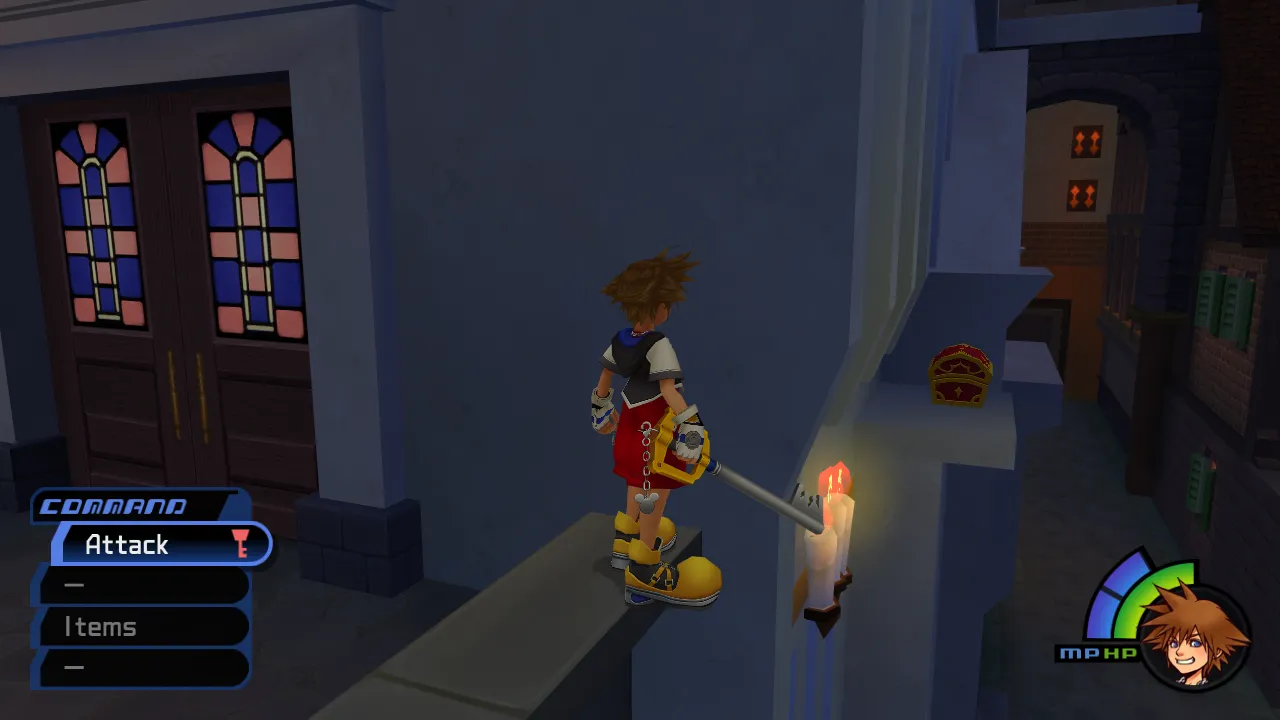
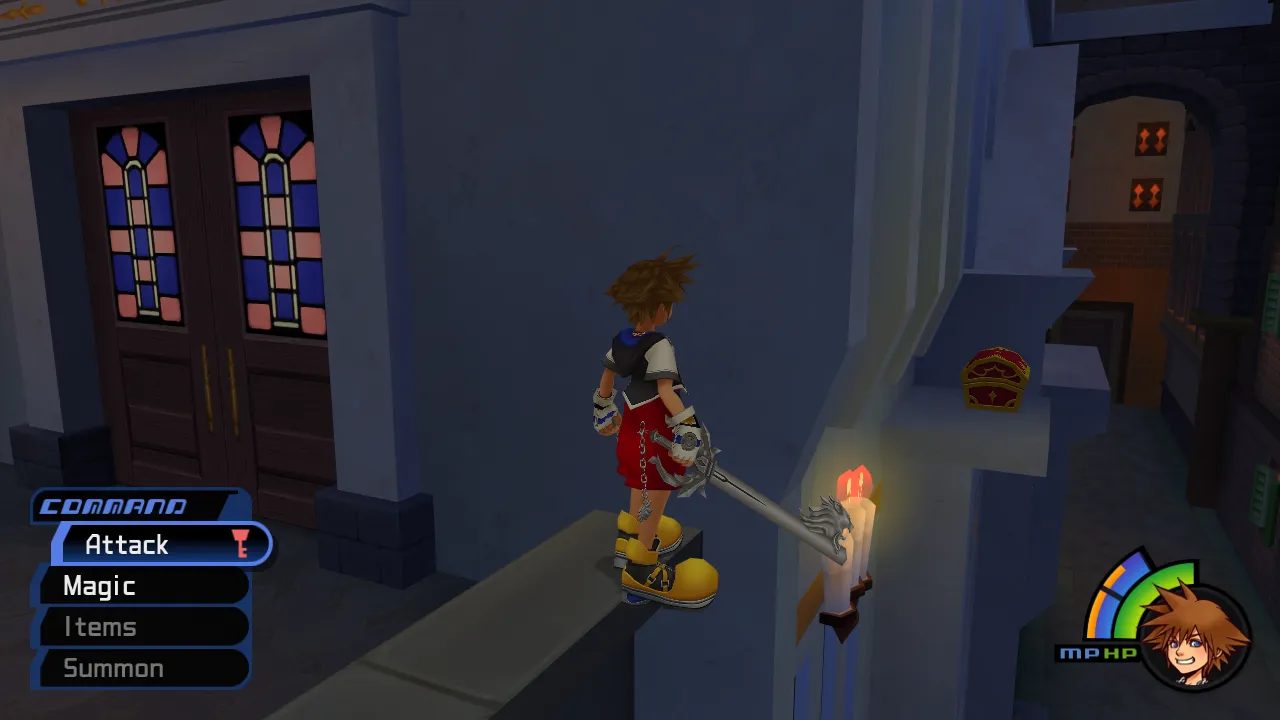
finished

diff --git a/olympus_coliseum.html b/olympus_coliseum.html
@@ -122,9 +122,6 @@
               <td style="border: 1px solid #ddd; padding: 8px; text-align: left;"><img src="./images/locations/olympus_coliseum/Olympus Coliseum Cloud Sonic Blade Event.webp" alt="Olympus Coliseum Cloud Sonic Blade Event" style="max-width: 640px; max-height: 360px;"></td>
             </tr>
             <tr>
-              
-            </tr>
-            <tr>
               <td style="border: 1px solid #ddd; padding: 8px; text-align: left;">Complete Phil Cup</td>
               <td style="border: 1px solid #ddd; padding: 8px; text-align: left;">Phil Cup</td>
               <td style="border: 1px solid #ddd; padding: 8px; text-align: left;">PLACEHOLDER: Complete Phil Cup Together</td>
@@ -173,6 +170,18 @@
               <td style="border: 1px solid #ddd; padding: 8px; text-align: left;"><img src="./images/locations/olympus_coliseum/Complete Hercules Cup.webp" alt="Complete Hercules Cup" style="max-width: 640px; max-height: 360px;"></td>
             </tr>
             <tr>
+              <td style="border: 1px solid #ddd; padding: 8px; text-align: left;">Hercules Cup Yellow Trinity Event</td>
+              <td style="border: 1px solid #ddd; padding: 8px; text-align: left;">Lobby</td>
+              <td style="border: 1px solid #ddd; padding: 8px; text-align: left;">PLACEHOLDER: Complete Hercules Cup Together</td>
+              <td style="border: 1px solid #ddd; padding: 8px; text-align: left;"><img src="./images/locations/olympus_coliseum/Hercules Cup Yellow Trinity Event.webp" alt="Hercules Cup Yellow Trinity Event" style="max-width: 640px; max-height: 360px;"></td>
+            </tr>
+            <tr>
+              <td style="border: 1px solid #ddd; padding: 8px; text-align: left;">Olympus Coliseum Olympia Chest</td>
+              <td style="border: 1px solid #ddd; padding: 8px; text-align: left;">Coliseum Lobby</td>
+              <td style="border: 1px solid #ddd; padding: 8px; text-align: left;">PLACEHOLDER: Complete Phil and Pegasus and Hercules Cup</td>
+              <td style="border: 1px solid #ddd; padding: 8px; text-align: left;"><img src="./images/locations/olympus_coliseum/Olympus Coliseum Olympia Chest.webp" alt="Olympus Coliseum Olympia Chest" style="max-width: 640px; max-height: 360px;"></td>
+            </tr>
+            <tr>
               <td style="border: 1px solid #ddd; padding: 8px; text-align: left;">Complete Hercules Cup Solo</td>
               <td style="border: 1px solid #ddd; padding: 8px; text-align: left;">Hercules Cup</td>
               <td style="border: 1px solid #ddd; padding: 8px; text-align: left;">PLACEHOLDER: Complete Solo</td>
@@ -185,22 +194,10 @@
               <td style="border: 1px solid #ddd; padding: 8px; text-align: left;"><img src="./images/locations/olympus_coliseum/Complete Hercules Cup Time Trial.webp" alt="Complete Hercules Cup Time Trial" style="max-width: 640px; max-height: 360px;"></td>
             </tr>
             <tr>
-              <td style="border: 1px solid #ddd; padding: 8px; text-align: left;">Hercules Cup Yellow Trinity Event</td>
-              <td style="border: 1px solid #ddd; padding: 8px; text-align: left;">Lobby</td>
-              <td style="border: 1px solid #ddd; padding: 8px; text-align: left;">PLACEHOLDER: Complete Hercules Cup Together</td>
-              <td style="border: 1px solid #ddd; padding: 8px; text-align: left;"><img src="./images/locations/olympus_coliseum/Hercules Cup Yellow Trinity Event.webp" alt="Hercules Cup Yellow Trinity Event" style="max-width: 640px; max-height: 360px;"></td>
-            </tr>
-            <tr>
-              <td style="border: 1px solid #ddd; padding: 8px; text-align: left;">Olympus Coliseum Defeat Ice Titan Diamond Dust Event</td>
-              <td style="border: 1px solid #ddd; padding: 8px; text-align: left;">Gold Match</td>
-              <td style="border: 1px solid #ddd; padding: 8px; text-align: left;">PLACEHOLDER: Defeat Ice Titan</td>
-              <td style="border: 1px solid #ddd; padding: 8px; text-align: left;"><img src="./images/locations/olympus_coliseum/Olympus Coliseum Defeat Ice Titan Diamond Dust Event.webp" alt="Olympus Coliseum Defeat Ice Titan Diamond Dust Event" style="max-width: 640px; max-height: 360px;"></td>
-            </tr>
-            <tr>
-              <td style="border: 1px solid #ddd; padding: 8px; text-align: left;">Olympus Coliseum Olympia Chest</td>
-              <td style="border: 1px solid #ddd; padding: 8px; text-align: left;">Coliseum Lobby</td>
-              <td style="border: 1px solid #ddd; padding: 8px; text-align: left;">PLACEHOLDER: Complete Phil and Pegasus and Hercules Cup</td>
-              <td style="border: 1px solid #ddd; padding: 8px; text-align: left;"><img src="./images/locations/olympus_coliseum/Olympus Coliseum Olympia Chest.webp" alt="Olympus Coliseum Olympia Chest" style="max-width: 640px; max-height: 360px;"></td>
+              <td style="border: 1px solid #ddd; padding: 8px; text-align: left;">Hades Cup Defeat Yuffie Event</td>
+              <td style="border: 1px solid #ddd; padding: 8px; text-align: left;">Hades Cup</td>
+              <td style="border: 1px solid #ddd; padding: 8px; text-align: left;">PLACEHOLDER: Defeat Yuffie</td>
+              <td style="border: 1px solid #ddd; padding: 8px; text-align: left;"><img src="./images/locations/olympus_coliseum/Hades Cup Defeat Yuffie Event.webp" alt="Hades Cup Defeat Yuffie Event" style="max-width: 640px; max-height: 360px;"></td>
             </tr>
             <tr>
               <td style="border: 1px solid #ddd; padding: 8px; text-align: left;">Hades Cup Defeat Behemoth Event</td>
@@ -215,6 +212,12 @@
               <td style="border: 1px solid #ddd; padding: 8px; text-align: left;"><img src="./images/locations/olympus_coliseum/Hades Cup Defeat Cerberus Event.webp" alt="Hades Cup Defeat Cerberus Event" style="max-width: 640px; max-height: 360px;"></td>
             </tr>
             <tr>
+              <td style="border: 1px solid #ddd; padding: 8px; text-align: left;">Hades Cup Defeat Cloud and Leon Event</td>
+              <td style="border: 1px solid #ddd; padding: 8px; text-align: left;">Hades Cup</td>
+              <td style="border: 1px solid #ddd; padding: 8px; text-align: left;">PLACEHOLDER: Defeat Leon and Cloud</td>
+              <td style="border: 1px solid #ddd; padding: 8px; text-align: left;"><img src="./images/locations/olympus_coliseum/Hades Cup Defeat Cloud and Leon Event.webp" alt="Hades Cup Defeat Cloud and Leon Event" style="max-width: 640px; max-height: 360px;"></td>
+            </tr>
+            <tr>
               <td style="border: 1px solid #ddd; padding: 8px; text-align: left;">Hades Cup Defeat Hades Event</td>
               <td style="border: 1px solid #ddd; padding: 8px; text-align: left;">Hades Cup</td>
               <td style="border: 1px solid #ddd; padding: 8px; text-align: left;">PLACEHOLDER: Defeat Hades</td>
@@ -227,22 +230,16 @@
               <td style="border: 1px solid #ddd; padding: 8px; text-align: left;"><img src="./images/locations/olympus_coliseum/Olympus Coliseum Defeat Hades Ansem's Report 8.webp" alt="Olympus Coliseum Defeat Hades Ansem's Report 8" style="max-width: 640px; max-height: 360px;"></td>
             </tr>
             <tr>
-              <td style="border: 1px solid #ddd; padding: 8px; text-align: left;">Hades Cup Defeat Cloud and Leon Event</td>
-              <td style="border: 1px solid #ddd; padding: 8px; text-align: left;">Hades Cup</td>
-              <td style="border: 1px solid #ddd; padding: 8px; text-align: left;">PLACEHOLDER: Defeat Leon and Cloud</td>
-              <td style="border: 1px solid #ddd; padding: 8px; text-align: left;"><img src="./images/locations/olympus_coliseum/Hades Cup Defeat Cloud and Leon Event.webp" alt="Hades Cup Defeat Cloud and Leon Event" style="max-width: 640px; max-height: 360px;"></td>
-            </tr>
-            <tr>
-              <td style="border: 1px solid #ddd; padding: 8px; text-align: left;">Hades Cup Defeat Yuffie Event</td>
-              <td style="border: 1px solid #ddd; padding: 8px; text-align: left;">Hades Cup</td>
-              <td style="border: 1px solid #ddd; padding: 8px; text-align: left;">PLACEHOLDER: Defeat Yuffie</td>
-              <td style="border: 1px solid #ddd; padding: 8px; text-align: left;"><img src="./images/locations/olympus_coliseum/Hades Cup Defeat Yuffie Event.webp" alt="Hades Cup Defeat Yuffie Event" style="max-width: 640px; max-height: 360px;"></td>
-            </tr>
-            <tr>
               <td style="border: 1px solid #ddd; padding: 8px; text-align: left;">Complete Hades Cup</td>
               <td style="border: 1px solid #ddd; padding: 8px; text-align: left;">Hades Cup</td>
               <td style="border: 1px solid #ddd; padding: 8px; text-align: left;">PLACEHOLDER: Complete Cup Together</td>
               <td style="border: 1px solid #ddd; padding: 8px; text-align: left;"><img src="./images/locations/olympus_coliseum/Complete Hades Cup.webp" alt="Complete Hades Cup" style="max-width: 640px; max-height: 360px;"></td>
+            </tr>
+            <tr>
+              <td style="border: 1px solid #ddd; padding: 8px; text-align: left;">Olympus Coliseum Gates Purple Jar After Defeating Hades</td>
+              <td style="border: 1px solid #ddd; padding: 8px; text-align: left;">Coliseum Gates</td>
+              <td style="border: 1px solid #ddd; padding: 8px; text-align: left;">PLACEHOLDER: Defeat Hades</td>
+              <td style="border: 1px solid #ddd; padding: 8px; text-align: left;"><img src="./images/locations/olympus_coliseum/Olympus Coliseum Gates Purple Jar After Defeating Hades.webp" alt="Olympus Coliseum Gates Purple Jar After Defeating Hades" style="max-width: 640px; max-height: 360px;"></td>
             </tr>
             <tr>
               <td style="border: 1px solid #ddd; padding: 8px; text-align: left;">Complete Hades Cup Solo</td>
@@ -257,22 +254,22 @@
               <td style="border: 1px solid #ddd; padding: 8px; text-align: left;"><img src="./images/locations/olympus_coliseum/Complete Hades Cup Time Trial.webp" alt="Complete Hades Cup Time Trial" style="max-width: 640px; max-height: 360px;"></td>
             </tr>
             <tr>
-              <td style="border: 1px solid #ddd; padding: 8px; text-align: left;">Olympus Coliseum Gates Purple Jar After Defeating Hades</td>
-              <td style="border: 1px solid #ddd; padding: 8px; text-align: left;">Coliseum Gates</td>
-              <td style="border: 1px solid #ddd; padding: 8px; text-align: left;">PLACEHOLDER: Defeat Hades</td>
-              <td style="border: 1px solid #ddd; padding: 8px; text-align: left;"><img src="./images/locations/olympus_coliseum/Olympus Coliseum Gates Purple Jar After Defeating Hades.webp" alt="Olympus Coliseum Gates Purple Jar After Defeating Hades" style="max-width: 640px; max-height: 360px;"></td>
-            </tr>
-            <tr>
-              <td style="border: 1px solid #ddd; padding: 8px; text-align: left;">Olympus Coliseum Defeat Sephiroth Ansem's Report 12</td>
-              <td style="border: 1px solid #ddd; padding: 8px; text-align: left;">Platinum Match</td>
-              <td style="border: 1px solid #ddd; padding: 8px; text-align: left;">PLACEHOLDER: Defeat Sephiroth</td>
-              <td style="border: 1px solid #ddd; padding: 8px; text-align: left;"><img src="./images/locations/olympus_coliseum/Olympus Coliseum Defeat Sephiroth Ansem's Report 12.webp" alt="Olympus Coliseum Defeat Sephiroth Ansem's Report 12" style="max-width: 640px; max-height: 360px;"></td>
+              <td style="border: 1px solid #ddd; padding: 8px; text-align: left;">Olympus Coliseum Defeat Ice Titan Diamond Dust Event</td>
+              <td style="border: 1px solid #ddd; padding: 8px; text-align: left;">Gold Match</td>
+              <td style="border: 1px solid #ddd; padding: 8px; text-align: left;">PLACEHOLDER: Defeat Ice Titan</td>
+              <td style="border: 1px solid #ddd; padding: 8px; text-align: left;"><img src="./images/locations/olympus_coliseum/Olympus Coliseum Defeat Ice Titan Diamond Dust Event.webp" alt="Olympus Coliseum Defeat Ice Titan Diamond Dust Event" style="max-width: 640px; max-height: 360px;"></td>
             </tr>
             <tr>
               <td style="border: 1px solid #ddd; padding: 8px; text-align: left;">Olympus Coliseum Defeat Sephiroth One-Winged Angel Event</td>
               <td style="border: 1px solid #ddd; padding: 8px; text-align: left;">Platinum Match</td>
               <td style="border: 1px solid #ddd; padding: 8px; text-align: left;">PLACEHOLDER: Defeat Sephiroth</td>
               <td style="border: 1px solid #ddd; padding: 8px; text-align: left;"><img src="./images/locations/olympus_coliseum/Olympus Coliseum Defeat Sephiroth One-Winged Angel Event.webp" alt="Olympus Coliseum Defeat Sephiroth One-Winged Angel Event" style="max-width: 640px; max-height: 360px;"></td>
+            </tr>
+            <tr>
+              <td style="border: 1px solid #ddd; padding: 8px; text-align: left;">Olympus Coliseum Defeat Sephiroth Ansem's Report 12</td>
+              <td style="border: 1px solid #ddd; padding: 8px; text-align: left;">Platinum Match</td>
+              <td style="border: 1px solid #ddd; padding: 8px; text-align: left;">PLACEHOLDER: Defeat Sephiroth</td>
+              <td style="border: 1px solid #ddd; padding: 8px; text-align: left;"><img src="./images/locations/olympus_coliseum/Olympus Coliseum Defeat Sephiroth Ansem's Report 12.webp" alt="Olympus Coliseum Defeat Sephiroth Ansem's Report 12" style="max-width: 640px; max-height: 360px;"></td>
             </tr>
           </tbody>
         </table>

diff --git a/traverse_town.html b/traverse_town.html
@@ -49,7 +49,6 @@
             </tr>
           </thead>
           <tbody>
-            <!--Should maybe retake every single TT check screenshot, to include Lionheart instead of Kingdom Key-->
             <tr>
               <td style="border: 1px solid #ddd; padding: 8px; text-align: left;">Traverse Town Item Shop Postcard</td>
               <td style="border: 1px solid #ddd; padding: 8px; text-align: left;">Item Shop</td>
